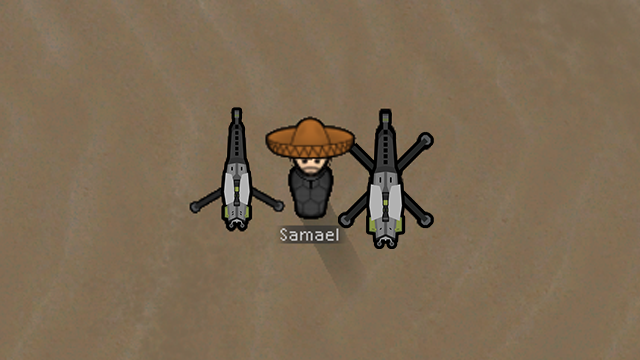
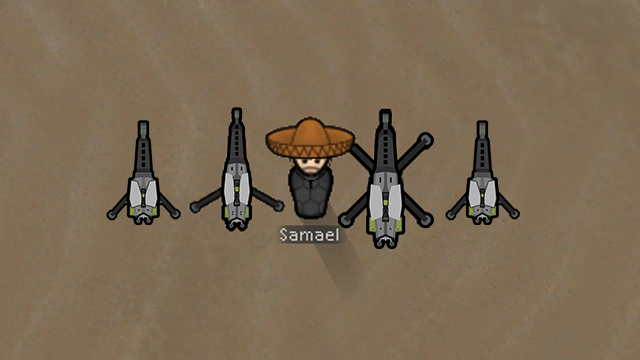
rerelease stuff

Changed region(s): [[0.6875, 0.3361, 0.8125, 0.6417], [0.1562, 0.3361, 0.2812, 0.6417]]

diff --git a/README.md b/README.md
@@ -1,11 +1,12 @@
 # PowerCreepArmory
 Power Creep Armory mod for Rimworld
 
-This mod adds several new items designed to take advantage of CE mechanics while filling in niches in the vanilla lineup in a way that the stuff included are a bit more powerful than other options out there hence the name of the mod.
+This mod adds several new guns, apparel and buildings designed to take advantage of CE mechanics while filling in niches in the vanilla lineup in a way that the included items are both balanced and fairly stronger than the other modded options in the workshop.
 
 Compatible with both the vanilla combat system and CE.
 
 ## Currently included:
+
 ### Pistols
 - FN Five-SeveN MK3 MRD Tactical
 - 500 S&W Magnum Tactical
@@ -27,5 +28,6 @@ Compatible with both the vanilla combat system and CE.
 ### Other
 - Ranged shield belt
 - Nanosuit
+- Medium Charge Blaster turret
 - Heavy Charge Blaster turret
 - Heavy Charge Autocannon turret
